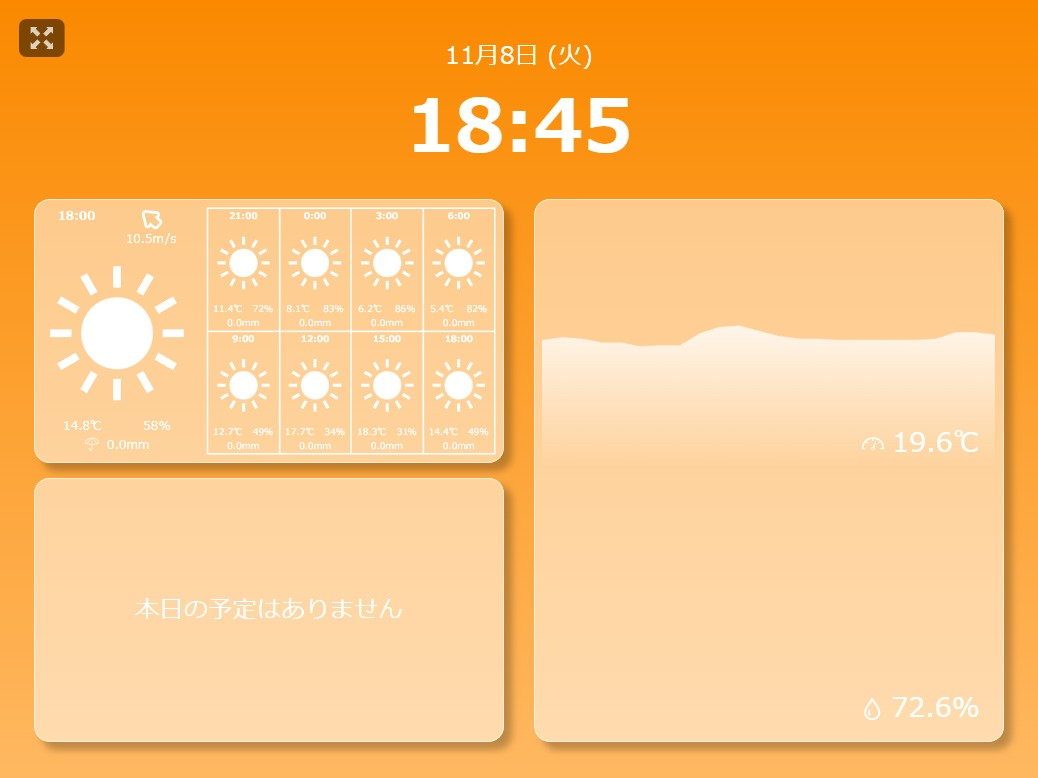
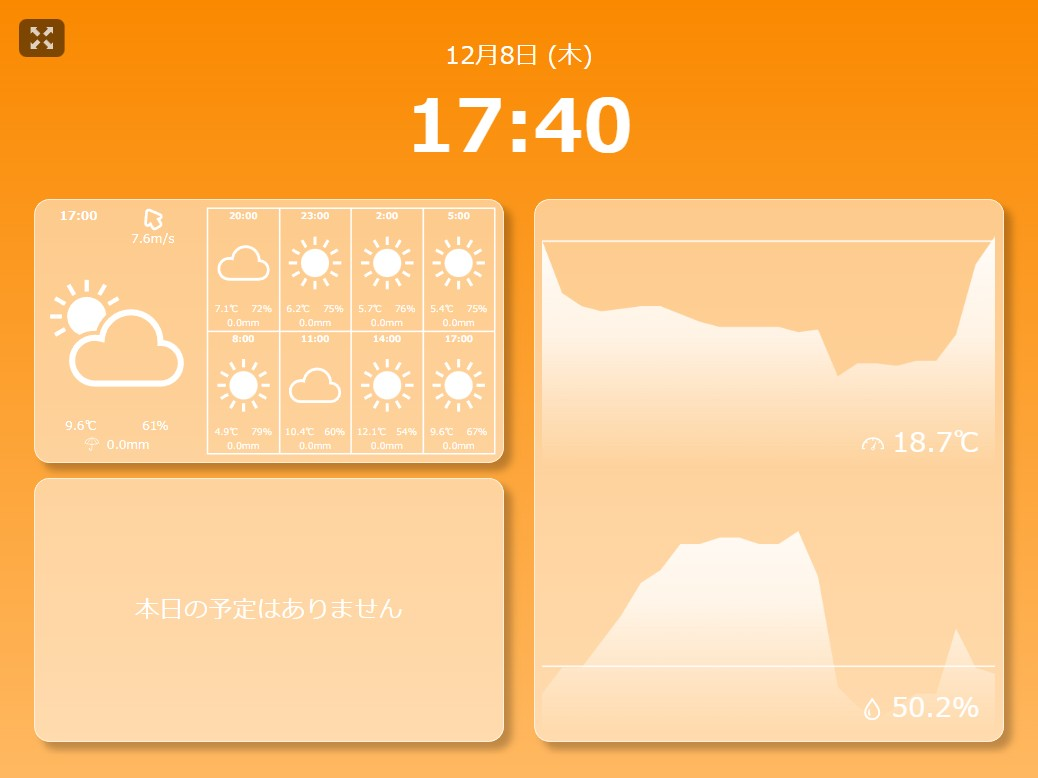
現在の室温、湿度を横線で表示するように変更

diff --git a/static/Graph.js b/static/Graph.js
@@ -15,6 +15,11 @@ class Graph {
 	 */
 	#data = [];
 	/**
+	 * 現在のデータ（センサーで取得し続けるデータ）
+	 * @type {number|null}
+	 */
+	#currentData = null;
+	/**
 	 * データの上限と下限
 	 * @type {Array}
 	 */
@@ -33,7 +38,7 @@ class Graph {
 
 	/**
 	 * データをクリアして新たにデータを設定
-	 * @param {Array} data
+	 * @param {Array} data 設定するデータ群
 	 */
 	setData(data) {
 		this.#data = [];
@@ -47,7 +52,7 @@ class Graph {
 
 	/**
 	 * 最古のデータを1件削除して、新たに最新のデータを挿入する。
-	 * @param {number} data
+	 * @param {number} data 新しいデータ
 	 */
 	swapData(data) {
 		console.group(`（${this.#name}）データを入れ替えました。`);
@@ -71,15 +76,29 @@ class Graph {
 	}
 
 	/**
+	 * 現在のデータを更新する。（センサーで取得し続けるデータ）
+	 * @param {number} 新しいデータ
+	 */
+	setCurrentData(currentData) {
+		this.#currentData = currentData;
+		this.#analyzeDataRange();
+		this.draw();
+	}
+
+	/**
 	 * データを分析して、データの範囲を決定する。
 	 */
 	#analyzeDataRange() {
-		if(this.#data.length > 0) {
+		if(this.#data.length > 0 || this.#currentData) {
 			this.#dataRange = new Array(2).fill(this.#data[0]);
 			this.#data.forEach((record) => {
 				if(this.#dataRange[0] < record) this.#dataRange[0] = record;
-				if(this.#dataRange[1] > record) this.#dataRange[1] = record;
+				else if(this.#dataRange[1] > record) this.#dataRange[1] = record;
 			});
+			if(this.#currentData) {
+				if(this.#dataRange[0] < this.#currentData) this.#dataRange[0] = this.#currentData;
+				else if(this.#dataRange[1] > this.#currentData) this.#dataRange[1] = this.#currentData;
+			}
 			this.#dataRange[0] = Math.ceil(this.#dataRange[0] / 10) * 10;
 			this.#dataRange[1] = Math.floor(this.#dataRange[1] / 10) * 10;
 			console.group(`（${this.#name}）データ描画範囲を更新しました。`);
@@ -116,6 +135,14 @@ class Graph {
 			gradation.addColorStop(1, "rgba(255, 255, 255, 0%)");
 			context.fillStyle = gradation;
 			context.fill();
+			if(this.#currentData) {
+				context.beginPath();
+				context.moveTo(0, this.#targetCanvas.height * ((this.#dataRange[0] - this.#currentData) / (this.#dataRange[0] - this.#dataRange[1])));
+				context.lineTo(this.#targetCanvas.width, this.#targetCanvas.height * ((this.#dataRange[0] - this.#currentData) / (this.#dataRange[0] - this.#dataRange[1])));
+				context.strokeStyle = "white";
+				context.lineWidth = 2;
+				context.stroke();
+			}
 		}
 		console.info(`（${this.#name}）グラフを描画しました。`);
 	}

diff --git a/static/TabletClock.js b/static/TabletClock.js
@@ -180,47 +180,17 @@ function refreshWeatherForecast() {
 	 * @return {string} 天気アイコンのパス
 	 */
 	function getWeatherString(weatherCode) {
-		switch(weatherCode) {
-			case 0:
-			case 1:
-				return "sunny";
-			case 2:
-				return "partly_cloudy";
-			case 3:
-				return "clouldy";
-			case 45:
-			case 48:
-				return "fog";
-			case 51:
-			case 53:
-			case 55:
-			case 56:
-			case 57:
-			case 61:
-			case 63:
-			case 65:
-			case 66:
-			case 67:
-				return "rain";
-			case 71:
-			case 73:
-			case 75:
-			case 77:
-				return "snow";
-			case 80:
-			case 81:
-			case 82:
-				return "heavy_rain";
-			case 85:
-			case 86:
-				return "snow_rain";
-			case 95:
-			case 96:
-			case 99:
-				return "thunder";
-			default:
-				return "unknown";
-		}
+		const degit10 = Math.floor(weatherCode / 10);
+		if(weatherCode <= 1) return "sunny";
+		else if(weatherCode == 2) return "partly_cloudy";
+		else if(weatherCode == 3) return "clouldy";
+		else if(degit10 == 4) return "fog";
+		else if(degit10 == 5 || degit10 == 6) return "rain";
+		else if(degit10 == 7) return "snow";
+		else if(weatherCode >= 80 && weatherCode <= 82) return "heavy_rain";
+		else if(weatherCode == 85 || weatherCode == 86) return "snow_rain";
+		else if(degit10 == 9) return "thunder";
+		else return "thunder";
 	}
 
 	const weatherForecastInit = init;
@@ -313,6 +283,8 @@ socketClient.connect();
 refreshBackground();
 if(darkModeInit) document.querySelectorAll(".darkmode").forEach((element) => element.classList.remove("hidden"));
 refreshClock();
+graph[0].setCurrentData(Number(document.getElementById("temperature").innerText));
+graph[1].setCurrentData(Number(document.getElementById("humidity").innerText));
 refreshWeatherForecast();
 refreshSchedule();
 refreshCanvasSize();

diff --git a/static/SocketClient.js b/static/SocketClient.js
@@ -38,12 +38,14 @@ class SocketClient {
 				switch(messageArgs[0]) {
 					case "updateTemperature":
 						document.getElementById("temperature").innerText = messageArgs[1];
+						graph[0].setCurrentData(Number(messageArgs[1]));
 						console.group("現在の室温を更新しました。");
 						console.debug(`新しい室温：${messageArgs[1]}`);
 						console.groupEnd();
 						break;
 					case "updateHumidity":
 						document.getElementById("humidity").innerText = messageArgs[1];
+						graph[1].setCurrentData(Number(messageArgs[1]));
 						console.group("現在の湿度を更新しました。");
 						console.debug(`新しい湿度：${messageArgs[1]}`);
 						console.groupEnd();

diff --git a/README.md b/README.md
@@ -8,8 +8,9 @@
 
 ## 機能一覧
 - 現在の日時を表示します。
-- センサーから取得した温度、（湿度）が表示されます。
-- 過去24時間にセンサーから取得した温度、（湿度）がグラフで表示されます。
+- センサーから取得した温度、湿度が表示されます。
+  - 現在の温度、湿度はグラフに横線としても表示されます。
+- 過去24時間にセンサーから取得した温度、湿度がグラフで表示されます。
 - MySQLによって1時間おきに取得された温度、湿度のデータが蓄積されます。
 - 現在の天気と今後24時間の天気予報が表示されます（[Open-Meteo](https://open-meteo.com)）。
 - Googleカレンダーより、本日の予定が表示されます。
